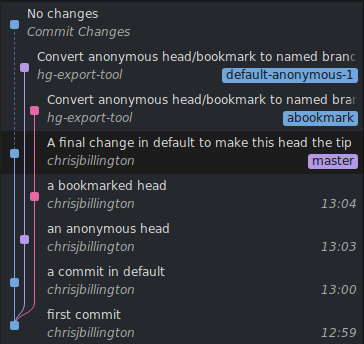
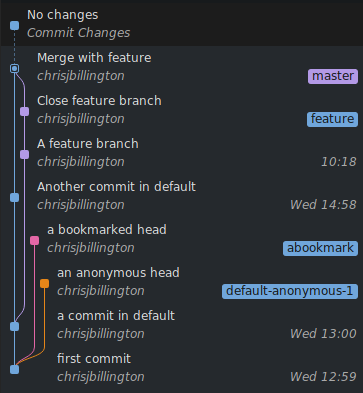
Amend extra heads to add branch name instead of adding new commits.
Add a feature branch to the example.

diff --git a/exporter.py b/exporter.py
@@ -62,7 +62,7 @@ def get_heads(hg_repo):
         'commit_hash': '<hash>',
         'branch': '<branchname>',
         'bookmark': '<bookmark name or None>',
-        'timstamp': '<utc_unix_timestamp>',
+        'timstamp': <utc_unix_timestamp>,
     }
 
     """
@@ -103,19 +103,16 @@ def fix_branches(hg_repo):
                 new_branch_name = head['bookmark']
             else:
                 new_branch_name = branch + '-anonymous-%d' % counter.next()
-            # Make a new commit with the new branch name:
+            # Amend the head to modify its branch name:
             with switch_directory(hg_repo):
                 subprocess.check_call(['hg', 'up', head['hash']])
                 subprocess.check_call(['hg', 'branch', new_branch_name])
+                msg = subprocess.check_output(
+                    ['hg', 'log', '-r', head['hash'], '--template', '{desc}']
+                ).rstrip('\n')
+                print(repr(msg))
                 subprocess.check_call(
-                    [
-                        'hg',
-                        'commit',
-                        '-u',
-                        'hg-export-tool',
-                        '-m',
-                        'Convert anonymous head/bookmark to named branch',
-                    ]
+                    ['hg', 'commit', '--amend', '-m', msg]
                 )
 
 def convert(hg_repo_copy, git_repo, fast_export_args, bash):

diff --git a/README.md b/README.md
@@ -1,20 +1,26 @@
 hg-export-tool
 =====================
 
-This is a script to run `hg-fast-export` on a list of mercurial repositories to convert
-them to git repositories. If there are anonymous heads, it first adds a commit to give
-them a unique branch name by appending `-anonymous-<n>` to their existing branch names,
-with n a unique integer. If such a head has a bookmark, the bookmark name will be used
-instead. This ensures these heads survive the conversion to git.
+This is a script to run [`hg-fast-export`](https://github.com/frej/fast-export/) on a
+list of mercurial repositories to convert them to git repositories. If there are
+multiple heads in the same branch, it first converts each to a uniquely-named branch, by
+amending the commit at each head to add a branch name. This conversion is done with a
+temporary copy of the repository; the original repository is left unmodified.
+
+The branch names used are of the form `<existing_branch_name>-anonymous-<n>` with n a
+unique integer. If such a head has a bookmark, the bookmark name will be used instead.
+This ensures these heads survive the conversion to git.
 
 Why
 ===
 
 Q. What's wrong with github's mercurial import?
 
-A. It doesn't import all anonymous heads, and it gets the order of parents of merge
-   commits wrong randomly, resulting in an incorrect concept of which branch was merged
-   into which, causing less-than-useful diffs for merge commits.
+A. It doesn't import bookmarked/anonymous heads, and it gets the order of parents of
+   merge commits wrong randomly, resulting in an incorrect concept of which branch was
+   merged into which, causing less-than-useful commit graphs and incorrect diffs for
+   merge commits. The former issue is by design, and I reported the latter issue to
+   github but did not get a response.
 
 Q. Doesn't functionality like this properly belong in `hg-fast-export`?
 
@@ -25,9 +31,11 @@ Q. Why Python 2?
 
 A. Because `hg-fast-export` is Python 2 only at present.
 
-Q. This is all pretty annoying, isn't it?
+Q. It's pretty disappointing that BitBucket dropped mercurial support without providing
+   any migration tools, isn't it? Would you recommend avoiding doing business with
+   Atlassian in the future?
 
-A. Yes
+A. Yes and yes.
 
 
 Requirements
@@ -98,11 +106,12 @@ What it does
 This script will, for each mercurial repo in the `REPO_MAPPING_FILE`:
 
 1. Make a temporary copy of the mercurial repository
-2. When a branch has more than one head, make empty branch commits such that each extra
-   head has a child commit with a unique branch name
+2. When a branch has more than one head, amend the head commit of that branch to give it
+   a unique branch name
 3. ensure the destination git repository directory exists
 4. run `git init` in in the destination repository
-5. Run `git config core.ignoreCase false` to set git case-sensitive for the repo
+5. Run `git config core.ignoreCase false` to set git case-sensitive for the repo (this
+   is required for `hg-fast-export` to not raise an error on Windows)
 5. `cd` to the destination git repository directory
 6. Run `hg-fast-export.sh -r <hg_repo_path> [args ...]`, passing all  arguments that
    were passed  to `exporter.py`
@@ -125,10 +134,10 @@ the following contents:
 }
 ```
 
-Note: Due to some line-ending weirdness I am not familiar with, when cloing this
-repository on Windows, the example mercurial repository appears as having uncommitted
-changes. Revert them before continuing, as mercurial with otherwise refuse to operate on
-this repository:
+Note: Due to git checking out files with platform-specific line-endings, when cloning
+this repository on Windows, the example mercurial repository appears as having
+uncommitted changes. Revert them before continuing, as mercurial with otherwise refuse
+to operate on this repository:
 ```bash
 hg update -C -R example/example.hg
 ```
@@ -152,5 +161,3 @@ And our new git repository has been created at `example/example.git`, which look
 like the following in Sublime merge:
 
 ![git_screenshot.png](example/git_screenshot.png)
-
-
